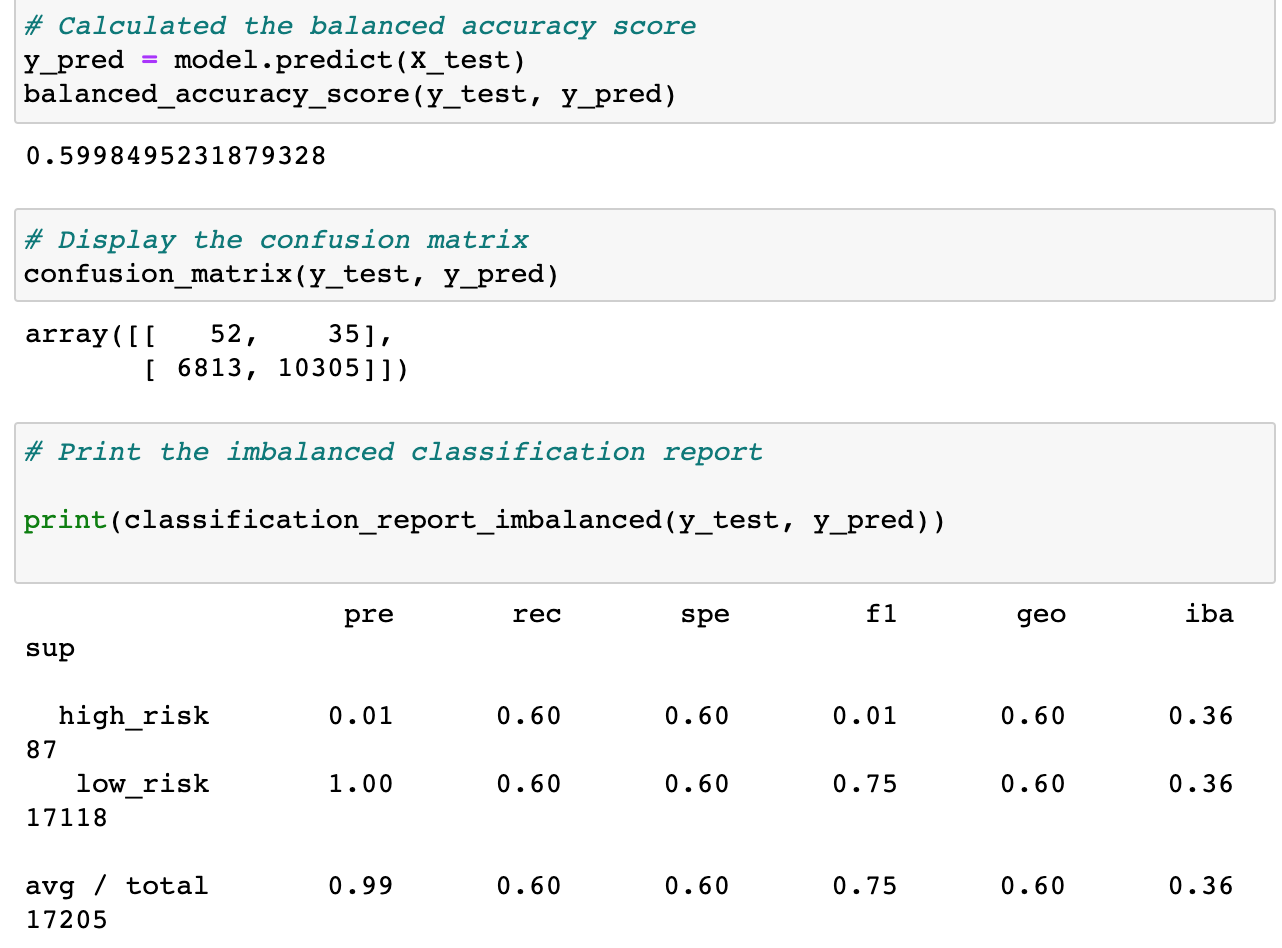
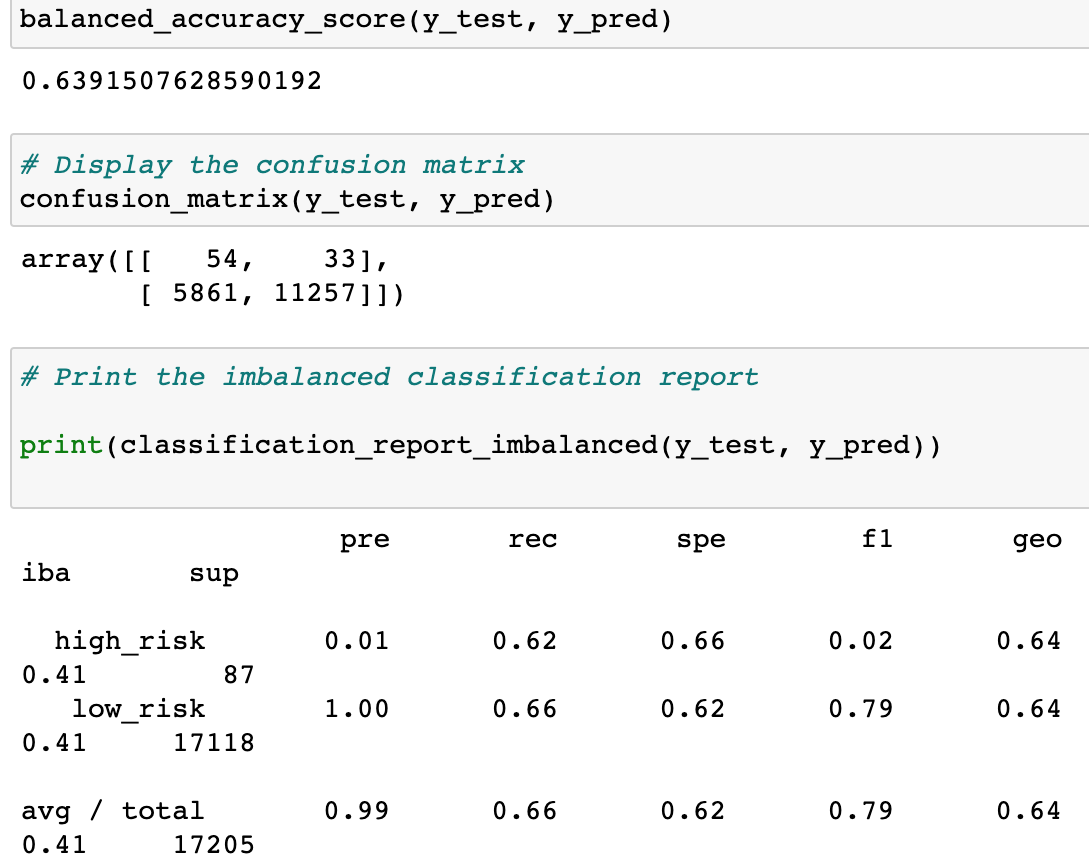
challenge

diff --git a/README.md b/README.md
@@ -1,1 +1,89 @@
 # Credit_Risk_Analysis
+
+## Purpose
+
+In order to deal with the inherently unbalanced classification problems of credit analysis due to the greater number of good loans, we will employ different techniques to train an evaluate models with unbalanced classes.
+
+We will be using imbalanced-learn and scikit-learn libraries to build and evaluate models using resampling.
+
+## Results
+
+### Naive Random Sampling
+![naive_random_sampling](https://github.com/jdfiel/Credit_Risk_Analysis/blob/main/Module-17-Challenge-Resources/naive_random_oversampling.png)
+
+* Accuracy:0.60
+High-Risk
+* Recall:Moderate (0.6)
+* Precision: Low (0.1)
+
+Low-Risk
+* Recall:Perfect (1.0)
+* Precision:Moderate (0.6)
+
+
+### Oversampling
+![SMOTE_oversampling](https://github.com/jdfiel/Credit_Risk_Analysis/blob/main/Module-17-Challenge-Resources/SMOTE_oversampling.png)
+
+* Accuracy:0.64
+High-Risk
+* Recall:Moderate (0.62)
+* Precision: Low (0.1)
+
+Low-Risk
+* Recall:Perfect (1.0)
+* Precision:Moderate (0.66)
+
+### Undersampling
+![SMOTE_undersampling](https://github.com/jdfiel/Credit_Risk_Analysis/blob/main/Module-17-Challenge-Resources/SMOTE_undersampling.png)
+
+* Accuracy:0.53
+High-Risk
+* Recall:Moderate (0.62)
+* Precision: Low (0.1)
+
+Low-Risk
+* Recall:Perfect (1.0)
+* Precision:Moderate-Low (0.44)
+
+### SMOTEEN
+![SMOTEEN](https://github.com/jdfiel/Credit_Risk_Analysis/blob/main/Module-17-Challenge-Resources/SMOTEEN.png)
+
+* Accuracy:0.60
+High-Risk
+* Recall:Moderate (0.63)
+* Precision: Low (0.1)
+
+Low-Risk
+* Recall:Perfect (1.0)
+* Precision: Moderate (0.57)
+
+### Balanced Random Forest
+![brf](https://github.com/jdfiel/Credit_Risk_Analysis/blob/main/Module-17-Challenge-Resources/brf.png)
+
+* Accuracy:0.79
+High-Risk
+* Recall:Moderate (0.67)
+* Precision: Low (0.03)
+
+Low-Risk
+* Recall:Perfect (1.0)
+* Precision: Moderate (0.91 )
+### Easy Ensemble AdaBoost
+![adaboost](https://github.com/jdfiel/Credit_Risk_Analysis/blob/main/Module-17-Challenge-Resources/adaboost.png)
+
+* Accuracy:0.90
+High-Risk
+* Recall:Moderate (0.92)
+* Precision: Low (0.09)
+
+Low-Risk
+* Recall:Perfect (1.0)
+* Precision: Moderate (0.94)
+
+## Summary
+
+Looking at the results it is clear that the ensemble methods heavily out perform the sampling methods. 
+
+Both ensemble methods demonstrated high accuracy. More importantly, both showed high recall scores for both high risk and low risk scores. EasyEnsemble AdaBoost outperformed Balanced Random Forest slightly. It is important to note that both ensemble methods suggest an over fit of the data.
+
+Depending on the goals of the company, it may be OK to use the EEA method. However, further investigation into over fit would be highly recommended.
